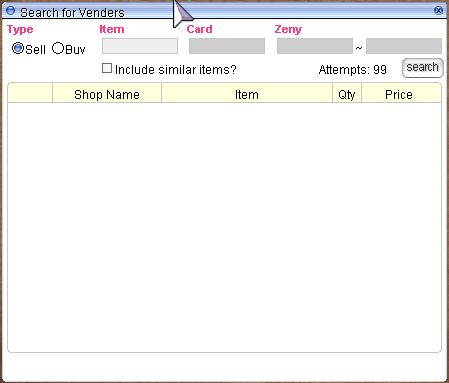
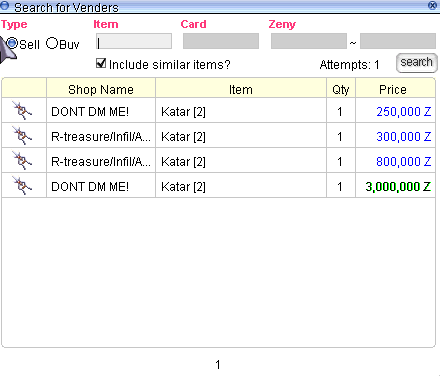
vending update

diff --git a/docs/vendor.md b/docs/vendor.md
@@ -40,17 +40,29 @@ Using the **Search Store** function, you can purchase items directly from a vend
 
 ## 🛒 How to Use the Search Store Function
 
-1. Type `@searchstores` or `@ss`.
-2. A search window will appear. Enter the name of the item you want to find.
-3. Untick *Include Similar Items?* for better search results.
-4. Use full name for search eg: Red Potions, White Potions or use @ii to find correct item name
+**Commands:**
+ Search vending store with : @ws (Who Sell)
+@ws ```<+refine> <item_id> <[card_id]> <option_id> <option_value>``` or 
+@ws ```<name>```
+
+- Search buying store with : @wb (Who Buy)
+@wb ```<+refine> <item_id>``` or 
+@wb ```<name>```
+
+Example : @ws katar
+
+> 💡 Both commands only available to use in **Prontera**. Other places is locked for now.
 
 ![Searchstores Picture](assets/npc/seachstoreswindow.png)
 
 1. Browse results from all online vendors.
-2. Click **Buy** to purchase the item instantly — no need to visit the vendor’s exact location. But you need to be in the same map as the vendor
+2. Double click on any item listed.
+3. Click **Buy** to purchase the item instantly — no need to visit the vendor’s exact location. But you need to be in the same map as the vendor
 
 > ⚡ This function streamlines your shopping experience and saves you valuable time.
+
+![Open Stores](assets/npc/openstores.png)
+
 
 ---
 
